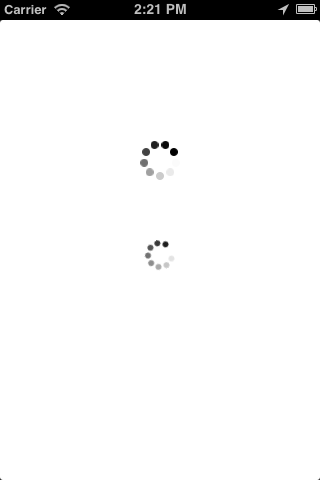
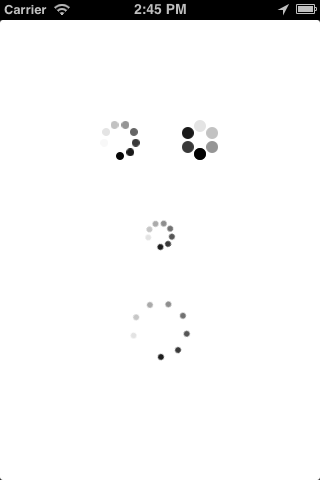
Update documentation

diff --git a/PHLoadingViews/PHRootViewController.m b/PHLoadingViews/PHRootViewController.m
@@ -16,12 +16,20 @@
 {
   [super viewDidLoad];
 
-  PHCircleFadeView *fadeView = [[PHCircleFadeView alloc] initWithFrame:CGRectMake(140., 120., 40., 40.)];
-  [fadeView setCircleWidth:8.];
-  [[self view] addSubview:fadeView];
+  PHCircleFadeView *fadeView1 = [[PHCircleFadeView alloc] initWithFrame:CGRectMake(100., 100., 40., 40.)];
+  [fadeView1 setCircleWidth:8.];
+  [[self view] addSubview:fadeView1];
 
-  PHCircleRotateView *rotateView = [[PHCircleRotateView alloc] initWithFrame:CGRectMake(145., 220., 30., 30.)];
-  [[self view] addSubview:rotateView];
+  PHCircleFadeView *fadeView2 = [[PHCircleFadeView alloc] initWithFrame:CGRectMake(180., 100., 40., 40.)];
+  [fadeView2 setCircleCount:6.];
+  [fadeView2 setCircleWidth:12.];
+  [[self view] addSubview:fadeView2];
+
+  PHCircleRotateView *rotateView1 = [[PHCircleRotateView alloc] initWithFrame:CGRectMake(145., 200., 30., 30.)];
+  [[self view] addSubview:rotateView1];
+
+  PHCircleRotateView *rotateView2 = [[PHCircleRotateView alloc] initWithFrame:CGRectMake(130., 280., 60., 60.)];
+  [[self view] addSubview:rotateView2];
 }
 
 @end

diff --git a/README.md b/README.md
@@ -8,10 +8,22 @@ by Pete Hare
 
 This is a selection of simple native loading spinners. I hate animated GIFs because the animation is never smooth, so these simple UIView subclasses can be dropped in anywhere you need to show a loading spinner.
 
+<img src="https://github.com/petehare/PHLoadingViews/raw/master/PHLoadingViews/PHLoadingViewsDemo.png" alt="Screenshot PHLoadingViews Demo" width="320" style="width:320px;"/>
+
+## How to use
+
+There are two types of spinner to choose from, and each can be customized.
+
+PHCircleFadeView uses a "fade" on each individual circle, while the PHCircleRotateView "rotates" the collection of circles as a whole. Each view will fill the frame given to it, or will size itself intrinsically.
+
+For each view you can set properties for:
+
+	* The number of circles
+	* The size of the circles
+	* The speed of the spinner
+
 ## License
 
 Made available under the MIT License.
-
-<img src="https://github.com/petehare/PHLoadingViews/raw/master/PHLoadingViews/PHLoadingViewsDemo.png" alt="Screenshot PHLoadingViews Demo" width="320" style="width:320px;"/>
 
 [1]: http://twitter.com/petehare/ "@petehare on Twitter"
